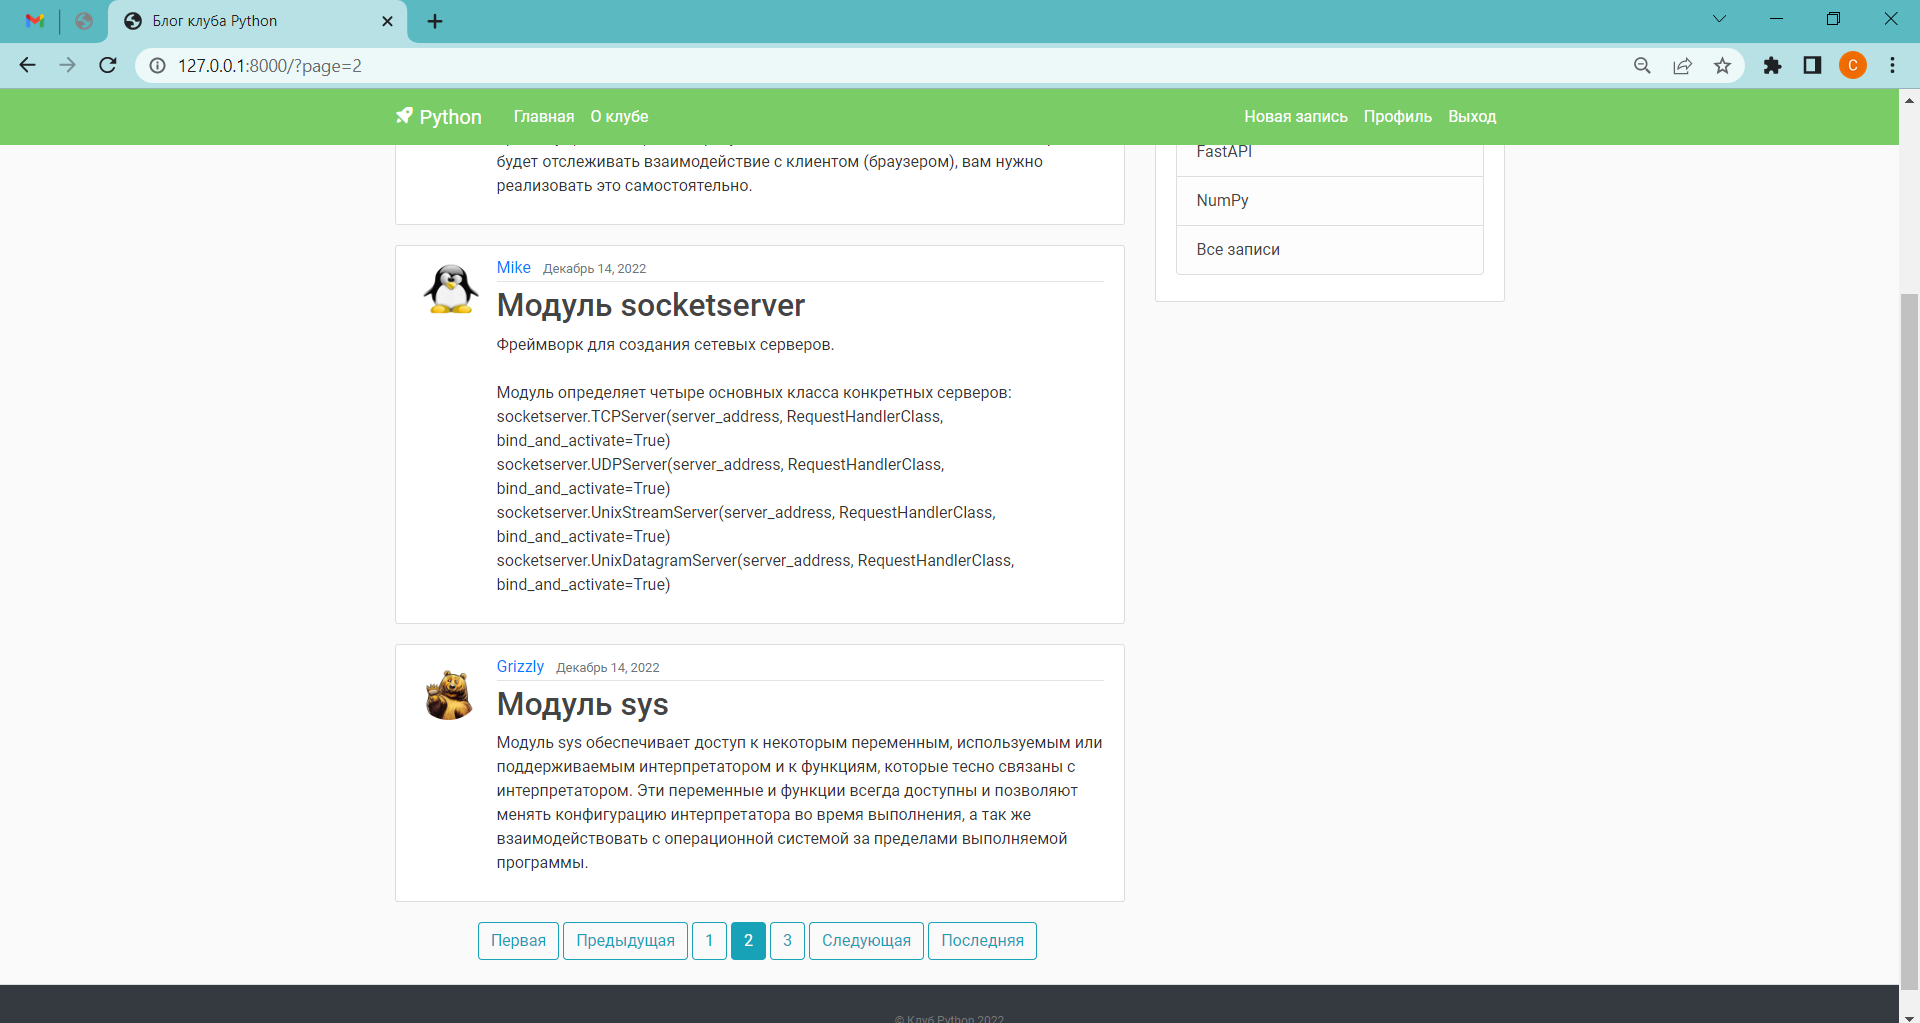
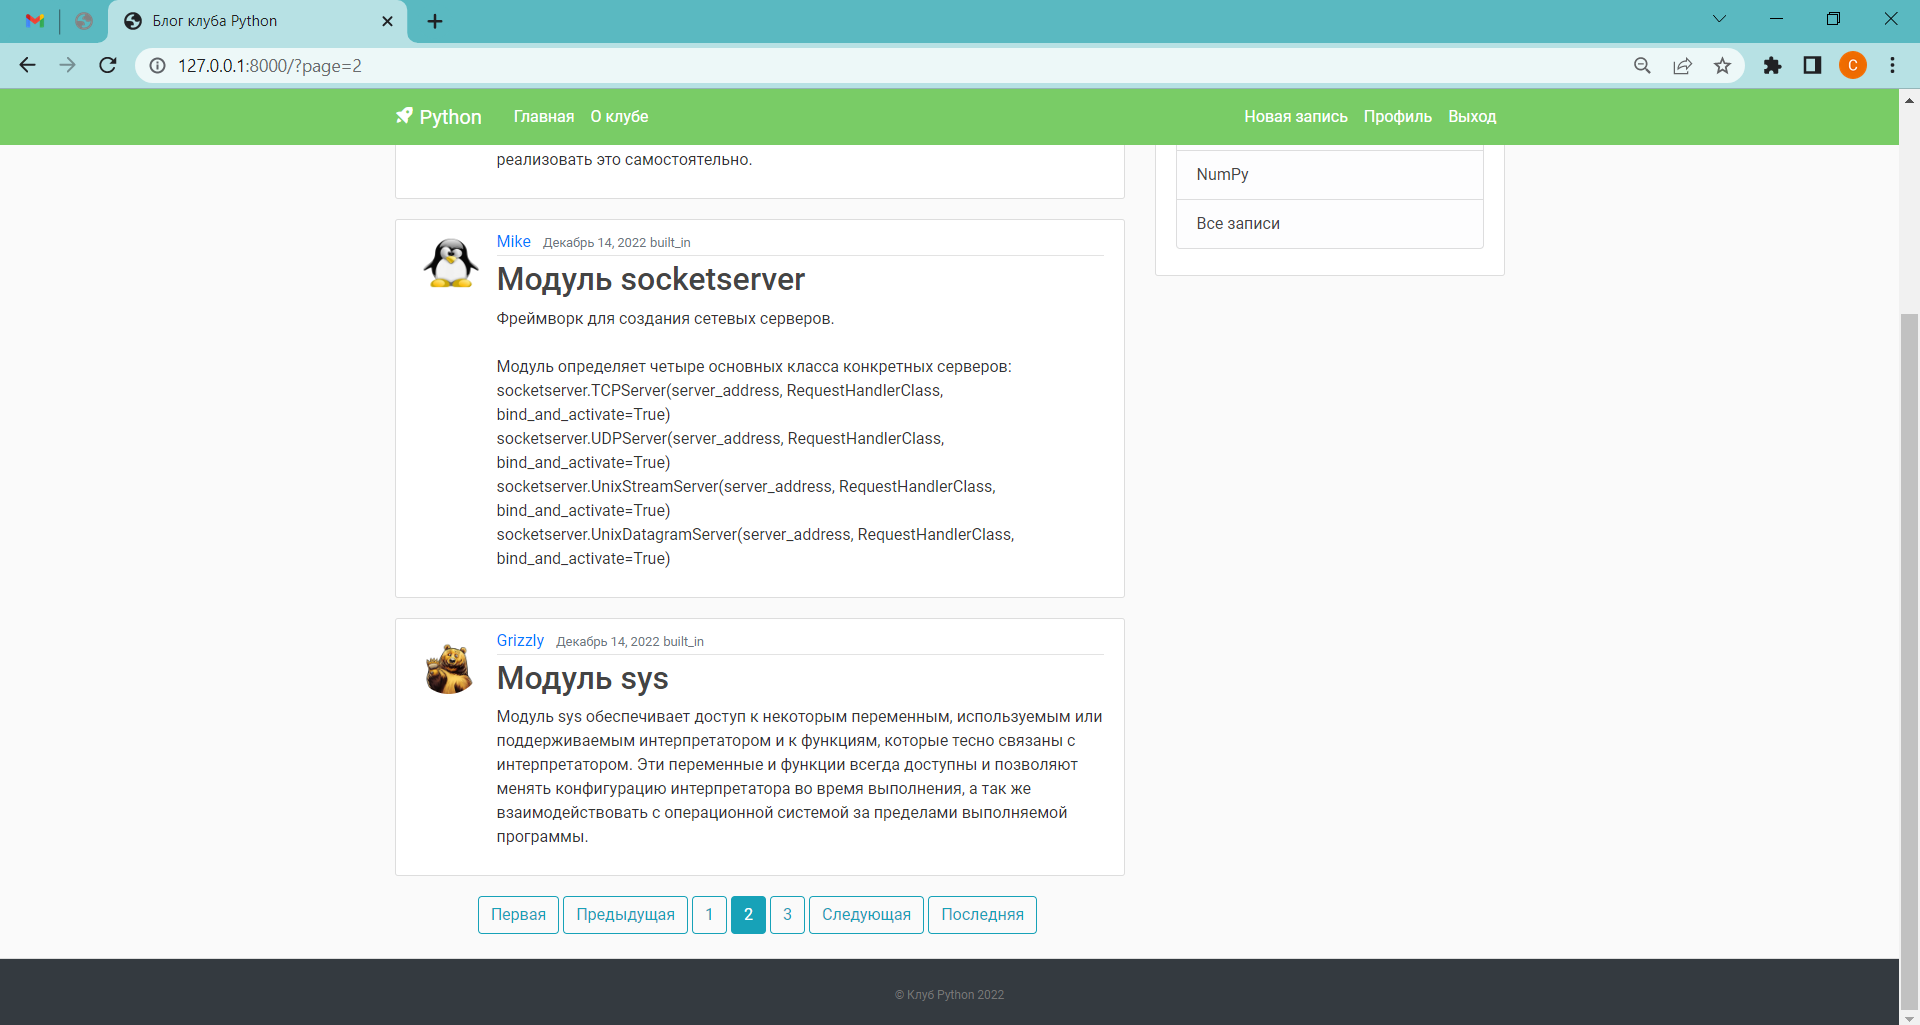
change README.md

diff --git a/website/templates/blog/home.html b/website/templates/blog/home.html
@@ -7,6 +7,7 @@
             <div class="article-metadata">
               <a class="mr-2" href="{% url 'user-posts' post.author.username %}">{{ post.author }}</a>
               <small class="text-muted">{{ post.date_posted|date:"F d, Y" }}</small>
+              <small class="text-muted">{{ post.category }}</small>
             </div>
             <h2><a class="article-title" href="{% url 'post-detail' post.id %}">{{ post.title }}</a></h2>
             <p class="article-content">{{ post.content }}</p>

diff --git a/website/templates/blog/user_posts.html b/website/templates/blog/user_posts.html
@@ -8,6 +8,7 @@
             <div class="article-metadata">
               <a class="mr-2" href="{% url 'user-posts' post.author.username %}">{{ post.author }}</a>
               <small class="text-muted">{{ post.date_posted|date:"F d, Y" }}</small>
+              <small class="text-muted">{{ post.category }}</small>
             </div>
             <h2><a class="article-title" href="{% url 'post-detail' post.id %}">{{ post.title }}</a></h2>
             <p class="article-content">{{ post.content }}</p>

diff --git a/website/templates/blog/post_detail.html b/website/templates/blog/post_detail.html
@@ -6,6 +6,7 @@
       <div class="article-metadata">
         <a class="mr-2" href="{% url 'user-posts' object.author.username %}">{{ object.author }}</a>
         <small class="text-muted">{{ object.date_posted|date:"F d, Y" }}</small>
+        <small class="text-muted">{{ post.category }}</small>
         {% if object.author == user %}
           <div>
             <a class="btn btn-secondary btn-sm mt-1 mb-1" href="{% url 'post-update' object.id %}">Редактировать</a>

diff --git a/README.md b/README.md
@@ -1,17 +1,15 @@
-<div>
-    <ul>Блог любителей Python в котором реализованы:
-        <li>Регистрация</li>
-        <li>Авторизация</li>
-        <li>Аутентификация</li>
-        <li>Ограничение доступа</li>
-        <li>Пагинация</li>
-        <li>Страница личного профиля</li>
-        <li>Возможность добалять посты</li>
-        <li>Возможность редактровать и удалять <b>свои</b> посты</li>
-        <li>Возможность просмотра пользователем постов по категориям</li>
-        <li>Возможность просмотра пользователем только своих постов по категориям</li>
-    </ul>
-</div>
+<ul>Блог любителей Python в котором реализованы:
+    <li>Регистрация</li>
+    <li>Авторизация</li>
+    <li>Аутентификация</li>
+    <li>Ограничение доступа</li>
+    <li>Пагинация</li>
+    <li>Страница личного профиля</li>
+    <li>Возможность добалять посты</li>
+    <li>Возможность редактровать и удалять <b>свои</b> посты</li>
+    <li>Возможность просмотра пользователем постов по категориям</li>
+    <li>Возможность просмотра пользователем только своих постов по категориям</li>
+</ul>
 
 Регистрация:
 <p align="center">
@@ -31,4 +29,10 @@
 Страница личного профиля:
 <p align="center">
   <img src="https://github.com/zorokonStepan/BlogSite_Django/raw/main/img_git/profile.png" width="450" title="profile">
+</p>
+
+
+Возможность просмотра пользователем только своих постов по категориям:
+<p align="center">
+  <img src="https://github.com/zorokonStepan/BlogSite_Django/raw/main/img_git/my_posts.png" width="450" title="my_posts">
 </p>
